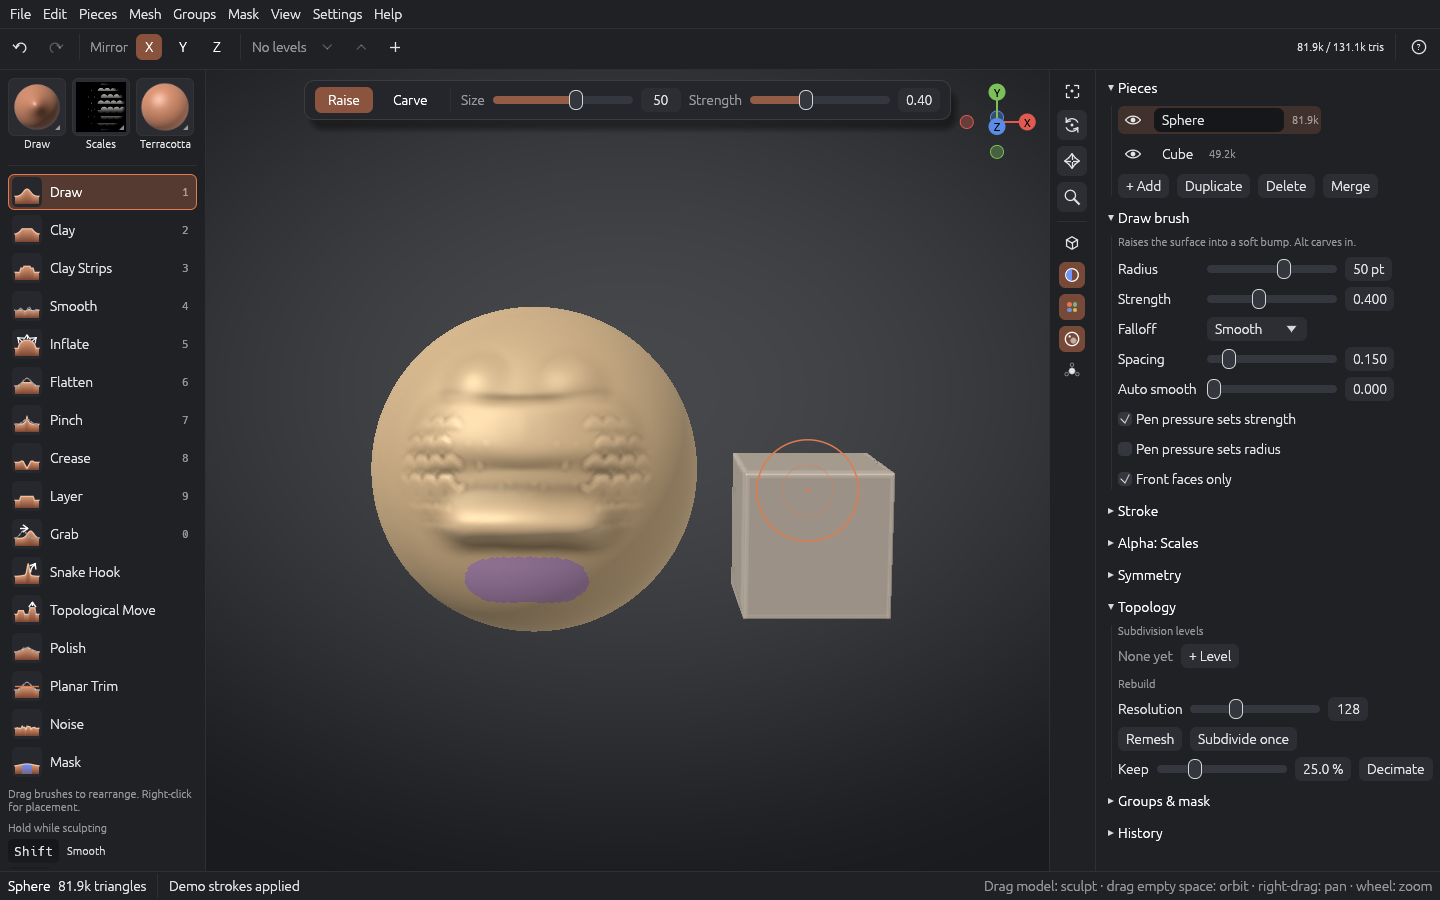
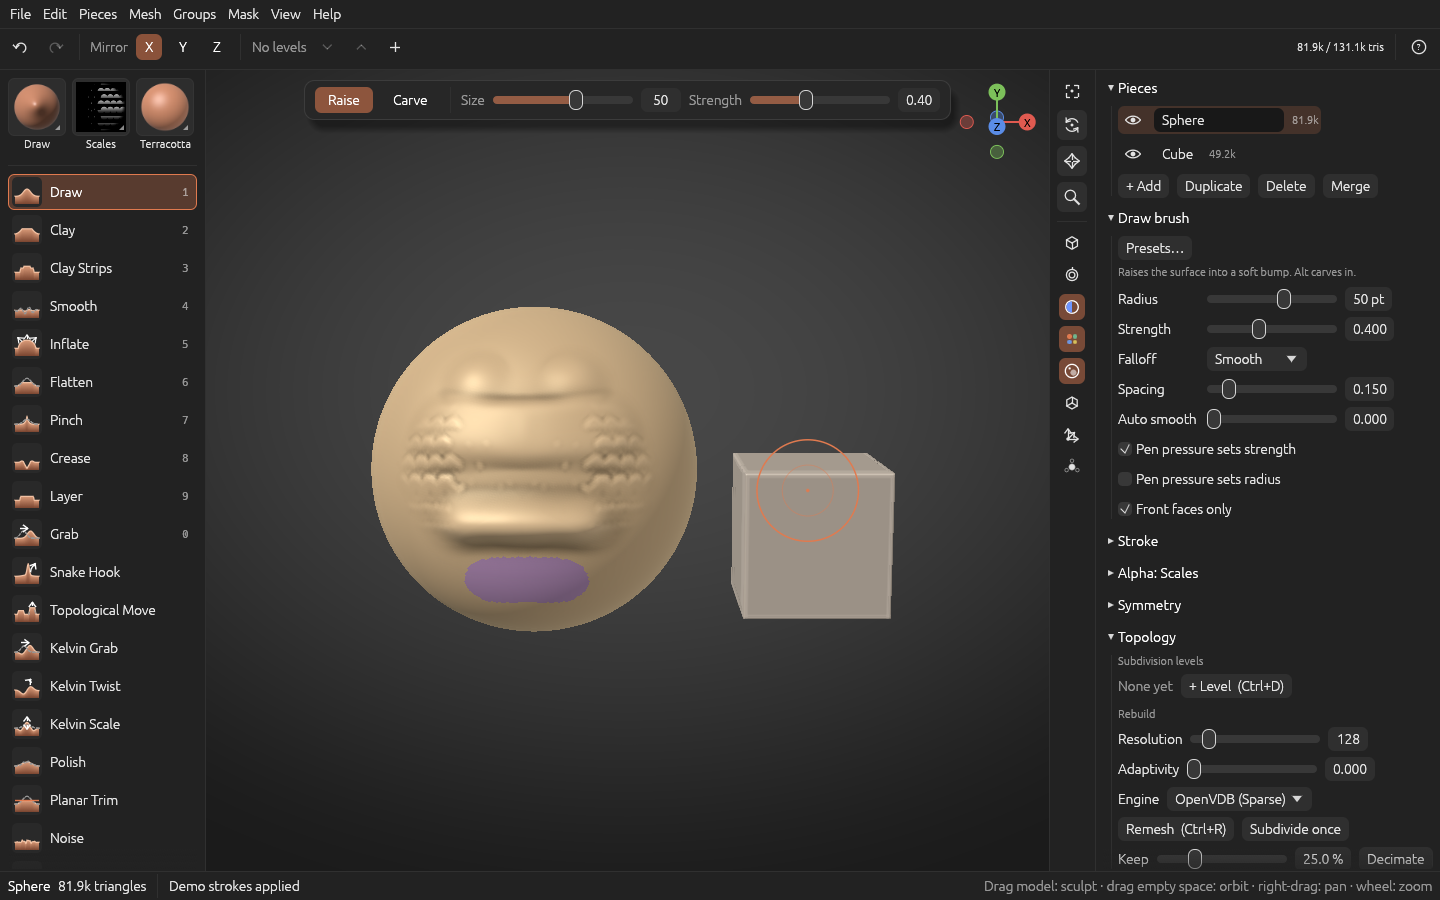
docs: update README and screenshot for v1.6.0-beta release

diff --git a/README.md b/README.md
@@ -75,11 +75,11 @@ Your layout, arrangement, brush order, interface scale, theme, material, autosav
 2. **Sculpt** by dragging on the model. Pick brushes with **1–9, 0** or the left shelf (each brush has an icon showing what it does to the surface); hold **Shift** to smooth, **Ctrl** to mask, **Alt** to invert; **[** / **]** resize the brush.
 3. Need more detail? **Ctrl+D** adds a subdivision level; **D** / **Shift+D** step up and down between levels, keeping your detail. **Remesh** (right panel) rebuilds even topology.
 4. **Ctrl+S** saves a project (`.oxb`); **Ctrl+E** exports glTF/GLB, OBJ, STL or PLY (for game engines, other 3D tools or 3D printing).
-5. **Ctrl+K** finds any command by typing part of its name, and **Space** finds a brush the same way. **F1** shows every shortcut, and **F2** opens the built-in guide (searchable, works offline). **Settings > Keymap** changes any shortcut or the mouse buttons.
+5. **Ctrl+K** finds any command by typing part of its name, and **Space** finds a brush the same way. **Ctrl+,** opens Preferences (General, Appearance, Plugins, Keymap, AI Agent, Updates). **F1** shows every shortcut, and **F2** opens the built-in guide (searchable, works offline).
 
-**Working with an AI agent** (off unless you turn it on): Settings > Local AI agent lets a program on this computer sculpt in the same scene as you. It listens only on this machine, shows **Agent connected** while one is here, and its edits undo like yours. Setup for common agents is in [docs/mcp.md](docs/mcp.md).
+**Working with an AI agent** (off unless you turn it on): Edit > Preferences > AI Agent lets a program on this computer sculpt in the same scene as you. It listens only on this machine, shows **Agent connected** while one is here, and its edits undo like yours. Setup for common agents is in [docs/mcp.md](docs/mcp.md).
 
-**Python plugins & scripting:** Write Python scripts or install custom plugins in your local plugins folder using the zero-dependency pure-Python SDK (`python/oxybrush`). The top-level **Plugins** menu lets you run any `.py` script via file dialog, launch installed plugins with one click, open your plugins directory, and reload plugins on the fly. Example plugins are in `examples/plugins/`.
+**Python plugins & scripting:** Write Python scripts or install custom plugins in your local plugins folder using the zero-dependency pure-Python SDK (`python/oxybrush`). Manage plugins in **Edit > Preferences > Plugins** (`Ctrl+,`) or run `.py` scripts via file dialog and reload plugins on the fly. Example plugins are in `examples/plugins/`.
 
 ## Help test OxyBrush
 
@@ -102,27 +102,29 @@ Testers are the most useful contribution right now — especially with **pen tab
 - **Masking and selection:** box or lasso mask/unmask and show/hide, mask by cavity, peaks or face group, blur/sharpen/grow/shrink the mask, grow/shrink the visible area.
 - **Vertex color:** a Paint brush (Alt erases; works with alphas and symmetry), and fills for the whole piece, its cavities or its peaks that respect the mask. Saved in projects and carried through subdivision levels.
 - **Transform gizmo (T):** move, rotate or scale a piece in the viewport. With a mask, only the unmasked part moves, and a soft mask edge bends smoothly, which makes it a quick posing tool (mask the body, rotate an arm at the shoulder).
-- **Symmetry:** X/Y/Z mirroring with $C^1$ smooth maximum partition-of-unity blending across midline boundaries, plus radial symmetry (up to 64 copies around any axis).
+- **Symmetry:** X/Y/Z mirroring with $C^2$ cubic directional weighting ($\omega_i = w_i^3$) preventing midline creasing and circular boundary tearing, plus radial symmetry (up to 64 copies around any axis).
 - **Multiple pieces per document:** add, duplicate, mirror-duplicate, delete, rename, show/hide, solo. Alt+click a piece to make it active.
 - **Subdivision levels (multiresolution):** add levels, sculpt broad shapes on a low level and fine detail on a high one; edits on a low level carry the higher-level detail along. Levels are saved in the project and covered by undo. Configurable ceiling for high-density meshes (`max_triangles`).
-- **Voxel remesh:** rebuilds clean, even topology. "Merge visible" remeshes several pieces into one (a union).
+- **OpenVDB sparse voxel remesher:** built-in safe Rust implementation of the Academy Software Foundation (ASWF) OpenVDB sparse B-tree ($8^3 = 512$ voxel leaf nodes with 512-bit masks). Remeshes past 1024 or 2048 voxels with low memory usage. Includes an **Adaptivity slider** to decimate flat planar regions while retaining high polygon density in curved sculpt areas. Toggle between `OpenVDB (Sparse)` and legacy `Regular Grid` engines.
+- **Volumetric CSG Booleans (`Mesh > Boolean`):** true Constructive Solid Geometry Boolean tools operating directly on VDB signed distance fields: **Difference** (subtract cutter), **Union** (weld into single manifold mesh), and **Intersection** (common volume). Immune to non-manifold edges, self-intersections, and coplanar face errors.
+- **Level set filters & shelling:** surface dilation and erosion offset, hollow wall shelling for 3D printing, and 3D Laplacian smoothing directly on the narrow-band SDF.
 - **Decimation:** quadric edge collapse that keeps open borders and face-group borders.
 - **Face groups and hiding:** group visible, group from mask, group by islands, Ctrl+Shift+click to isolate a group, invert visibility, delete hidden, and a group color overlay.
 - **Projects:** `.oxb` project files (versioned, checksummed, compressed, saved atomically), a prompt before discarding unsaved changes, **autosave every 2 minutes** (or set to 0/"Off" in Settings), and **crash recovery** on the next launch.
-- **Python plugins & scripting:** a pure-Python client SDK (`python/oxybrush`) with zero external dependencies. Connects over loopback Model Context Protocol (MCP JSON-RPC 2.0) to inspect scenes, configure brushes, execute 3D strokes, manage topology (remesh, decimate, subdivide), and import/export assets. In-app **Plugins** menu with dynamic discovery, reload, and non-blocking background execution. Includes procedural sample plugins (`examples/plugins/`).
+- **Python plugins & scripting:** a pure-Python client SDK (`python/oxybrush`) with zero external dependencies. Connects over loopback Model Context Protocol (MCP JSON-RPC 2.0) to inspect scenes, configure brushes, execute 3D strokes, manage topology (remesh, decimate, subdivide), and import/export assets. Manage plugins in **Edit > Preferences > Plugins** (`Ctrl+,`) with dynamic discovery, reload, and non-blocking background execution. Includes procedural sample plugins (`examples/plugins/`).
 - **Dense mesh performance optimizations:** stroke coalescing and adaptive dab budgeting (`OXYBRUSH_DAB_BUDGET_MS`, default 10 ms) eliminate stroke queuing during rapid gestures; parallel Rayon geometry passes, atomic stamps, 1024-triangle chunk granularity, parallel GPU vertex packing, and zero-copy GPU index buffer binding.
-- **Background jobs:** remesh, merge and decimate run on a worker thread, so the UI stays responsive.
+- **Background jobs:** remesh, booleans, merge and decimate run on a worker thread, so the UI stays responsive.
 - **Chunked mesh engine:** a stroke only re-computes, re-uploads and snapshots the regions it touches.
 - **Undo/redo:** covers strokes, topology changes, face groups and visibility, and adding, removing or merging pieces, within a memory budget.
-- **Matcap viewport (wgpu):** five procedurally generated materials (no third-party assets), with **ambient occlusion and cavity shading** that darken folds, creases and pores so fine detail reads clearly (toggle in the view strip, strengths in View > Shading). Load your own matcaps (PNG or JPEG) from the material picker, and switch to **flat shading** in the View menu to see every polygon. **View > Background** (also under Settings) switches the soft gradient and one flat color; Colors… sets the center and edge, or the single flat color, and Reset to default restores the original gradient. The choice is remembered. **View > Align cursor to surface** (also in Settings, off by default and remembered) draws the brush ring on the clay under the pointer; off the model it stays flat to the screen.
+- **Matcap viewport (wgpu):** five procedurally generated materials (no third-party assets), with **ambient occlusion and cavity shading** that darken folds, creases and pores so fine detail reads clearly (toggle in the view strip, strengths in View > Shading). Load your own matcaps (PNG or JPEG) from the material picker, and switch to **flat shading** in the View menu to see every polygon. **View > Background** switches the soft gradient and one flat color; Colors… sets the center and edge, or the single flat color, and Reset to default restores the original gradient. The choice is remembered. **View > Align cursor to surface** (off by default and remembered) draws the brush ring on the clay under the pointer; off the model it stays flat to the screen.
 - **Focal length:** the perspective lens is a 35mm-equivalent focal length from 15 to 200 mm (View > Focal length, the lens button in the view strip, or the command palette), with a slider, a numeric field, presets and the field of view in degrees. The model stays the same size; orthographic view is unchanged. Remembered between sessions.
 - **Import/export:** Native ZBrush (`.ztl`, `.zpr`) subtool import with geometry decompression, quad/triangle polygon reconstruction, polygroup extraction, and world transformation matrices. OBJ and STL import (each object or SubTool becomes its own piece). Export of all visible pieces to glTF 2.0 (`.glb`/`.gltf`, one object per piece), OBJ (one object per piece), binary STL and binary PLY.
 - **Pipeline helpers:** make an LOD chain (1/2, 1/4, 1/8 of the triangles), split a piece by face groups or into loose parts, and the `oxybrush-cli` command-line tool for batch conversion, remeshing, decimation, LODs and splitting (`cargo run -p oxy-cli -- --help`).
-- **Friendly interface:** a welcome window with starter shapes and the basics; large brush, alpha and material previews that open thumbnail pickers; brush icons and a short tooltip on every control (what it does, and its shortcut); a toolbar with Raise/Carve, brush size and strength, symmetry and subdivision levels; a view strip beside the viewport (drag to orbit, pan or zoom, focal length, handy with a pen) and a clickable axis gizmo; collapsible panel sections; and a status bar that explains what the held keys do. On a touch screen, press and hold a control to read its tooltip.
+- **Friendly interface & menu bar:** streamlined into 8 clean top categories: `File`, `Edit`, `Pieces`, `Mesh`, `Groups`, `Mask`, `View`, `Help`. A welcome window with starter shapes and the basics; large brush, alpha and material previews that open thumbnail pickers; brush icons and a short tooltip on every control (what it does, and its shortcut); a toolbar with Raise/Carve, brush size and strength, symmetry and subdivision levels; a view strip beside the viewport (drag to orbit, pan or zoom, focal length, handy with a pen) and a clickable axis gizmo; collapsible panel sections; and a status bar that explains what the held keys do. On a touch screen, press and hold a control to read its tooltip.
   - **Fast workflow:** a command palette (Ctrl+K) that finds any command, brush, recent file or guide topic as you type; a type-to-pick brush finder (Space); recent files in File > Open recent and on the welcome window; and a built-in, searchable guide (F2) that works offline.
-- **Keymap:** Settings > Keymap rebinds every command, brush and view key (conflict warnings, reset one or all) and the mouse. Presets: **OxyBrush** (the controls in the table below) and **MMB orbit** (middle-drag orbits, Ctrl+middle zooms, Shift+middle pans, 45° snap on Alt until you change it). An optional sculpt setup makes Ctrl carve and Alt mask. Keys are remembered and can be exported. The touch layout's on-screen Smooth, Mask and Invert buttons keep those jobs.
+- **Unified Preferences window (Ctrl+,):** a multi-tab dialog organizing General, Appearance (theme, accent color, background, wireframe), Plugins, Keymap, AI Agent, and Updates into one place. Rebind every command, brush and view key (conflict warnings, reset one or all) and the mouse. Presets: **OxyBrush** (the controls in the table below) and **MMB orbit** (middle-drag orbits, Ctrl+middle zooms, Shift+middle pans, 45° snap on Alt until you change it). An optional sculpt setup makes Ctrl carve and Alt mask. Keys are remembered and can be exported. The touch layout's on-screen Smooth, Mask and Invert buttons keep those jobs.
 - **Accessibility basics:** UI scaling (75–300%), a high-contrast theme, a full mouse-only workflow, and screen-reader labels through AccessKit.
-- **Optional updates:** off by default. Settings > Updates can tell you about new versions or download them in the background; installing always waits for you, and downloads are checksum-verified. Help > Check for updates checks once on demand. Only GitHub is contacted and nothing about you or your work is sent ([details](docs/rfcs/0002-updates.md)). Flatpak installs update through Flatpak.
+- **Optional updates:** off by default. Preferences > Updates can tell you about new versions or download them in the background; installing always waits for you, and downloads are checksum-verified. Help > Check for updates checks once on demand. Only GitHub is contacted and nothing about you or your work is sent ([details](docs/rfcs/0002-updates.md)). Flatpak installs update through Flatpak.
 - **Rust:** a standard Rust toolchain is all you need on Windows, Linux or macOS (the optional updater's TLS library compiles a little C with the compiler Rust already uses).
 
 ## Controls
@@ -157,6 +159,7 @@ Testers are the most useful contribution right now — especially with **pen tab
 | Middle-drag on a panel | Scroll the panel |
 | Ctrl+K | Command palette |
 | Space | Find a brush by name |
+| `Ctrl+,` | Preferences window (General, Appearance, Plugins, Keymap, AI Agent, Updates) |
 | `F1` / `F2` | Full shortcut list / built-in guide |
 
 These are the OxyBrush preset. **Settings > Keymap** can change any of them, including the numpad view keys, and can switch the mouse to the MMB orbit preset. On macOS, **Cmd** works wherever Ctrl is listed and **Option** is Alt.
